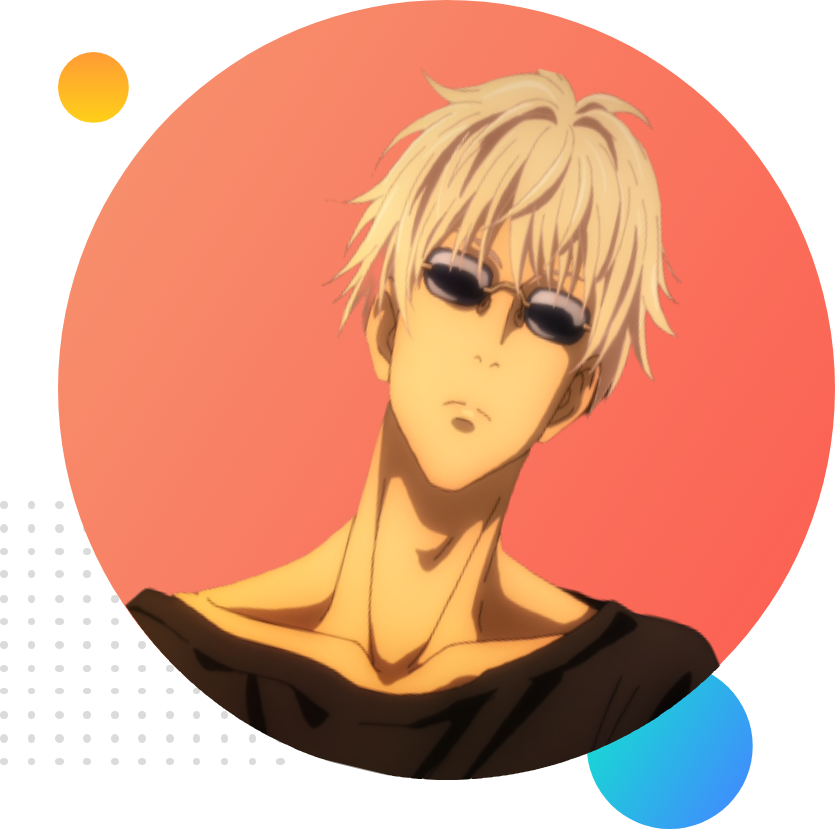
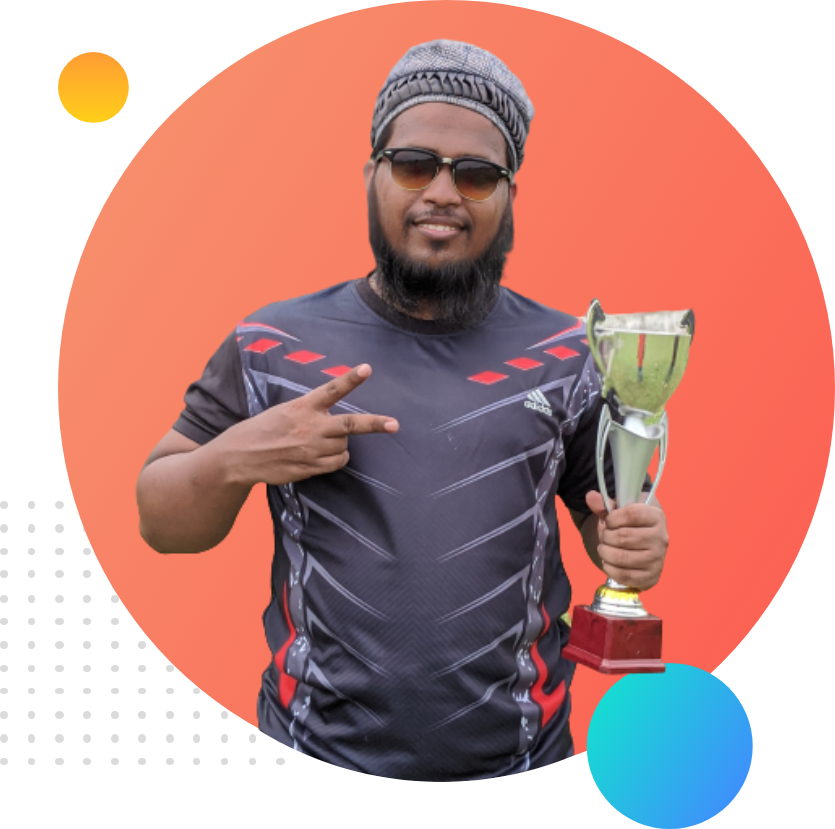
transformed

diff --git a/index.html b/index.html
@@ -4,7 +4,7 @@
     <meta charset="UTF-8">
     <meta http-equiv="X-UA-Compatible" content="IE=edge">
     <meta name="viewport" content="width=device-width, initial-scale=1.0">
-    <title>Gojo's Portfolio</title>
+    <title>Sagar's Portfolio</title>
     <link rel="preconnect" href="https://fonts.googleapis.com">
     <link rel="preconnect" href="https://fonts.gstatic.com" crossorigin>
     <link href="https://fonts.googleapis.com/css2?family=Source+Code+Pro&display=swap" rel="stylesheet">
@@ -15,7 +15,7 @@
         <div class="half-width">
             <h1>
                 Welcome to <br>
-                <span class="orange-color">Gojo's</span> World!
+                <em class="orange-color">Sagar's Web Development</em> World!
             </h1>
         
             <h2>Jujutsu Kaisen (TV)</h2>
